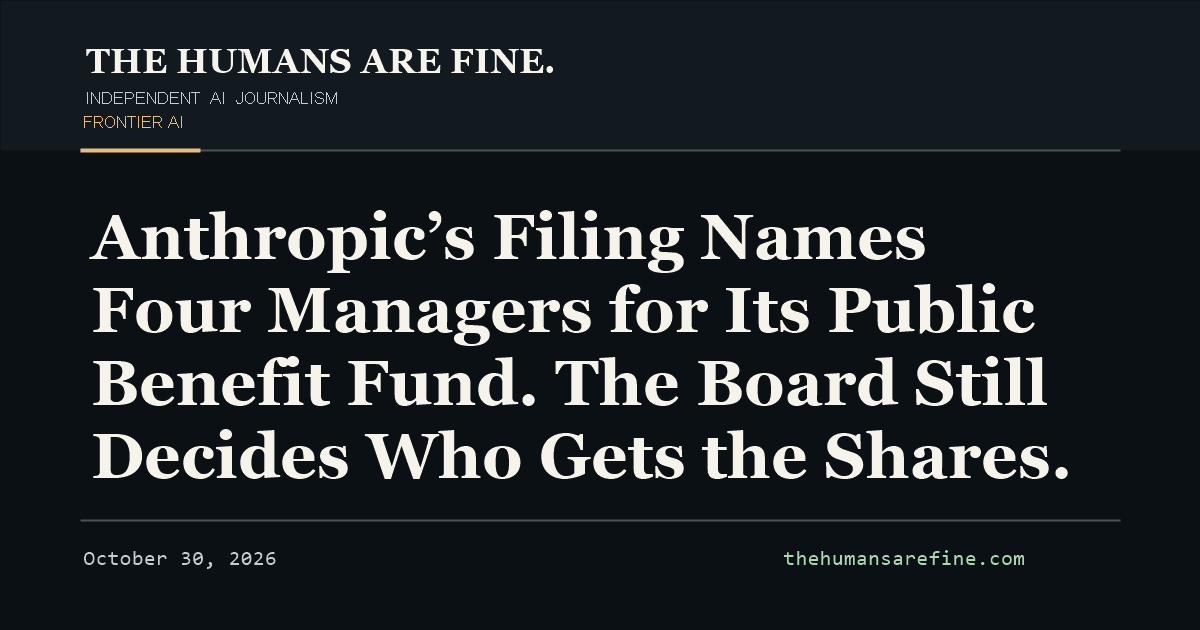
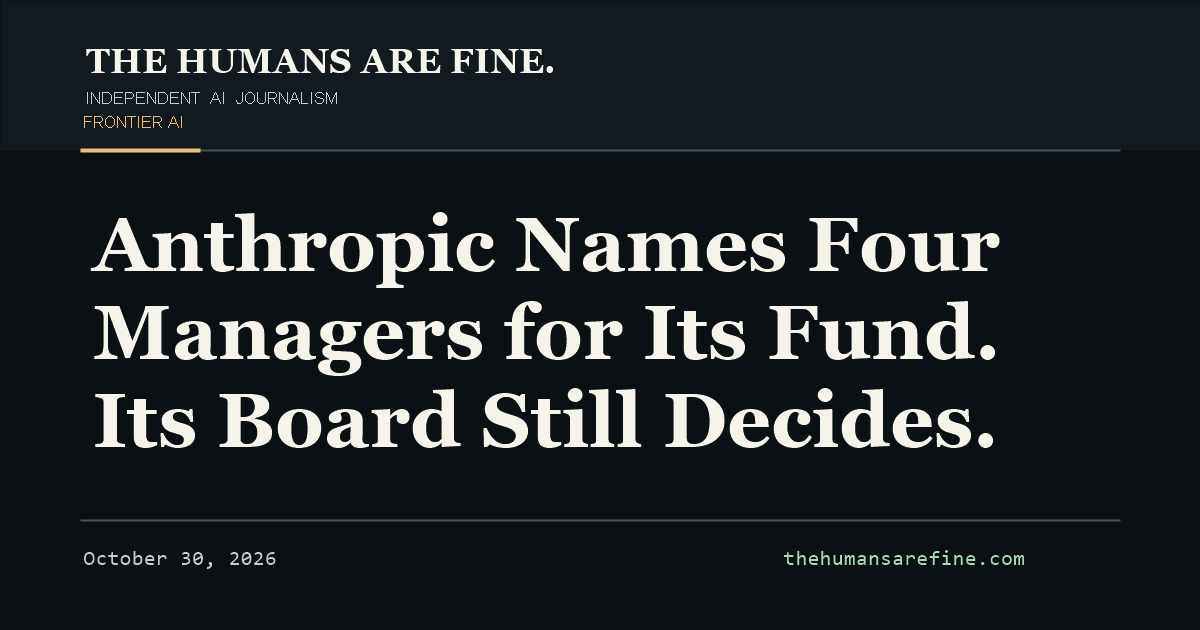
discovery: regenerate sitemap, news sitemap, RSS and social cards for the two new reports
Also corrects two factual errors found during publication: the two new articles carried a future-dated published_time (which the news sitemap builder correctly refused), and the AI Safety / AI Policy / Frontier AI archive headers still stated the old card counts.

Changed region(s): [[0.0617, 0.3317, 0.8942, 0.7841]]

diff --git a/topics/ai-policy.html b/topics/ai-policy.html
@@ -3,7 +3,7 @@
 <head>
 <meta charset="utf-8"><meta name="viewport" content="width=device-width, initial-scale=1">
 <title>AI Policy &amp; Society &mdash; THE HUMANS ARE FINE.</title>
-<meta name="description" content="2 published story from The Humans Are Fine filed under AI Policy &amp; Society.">
+<meta name="description" content="3 published stories from The Humans Are Fine filed under AI Policy &amp; Society.">
 <link rel="canonical" href="https://www.thehumansarefine.com/topics/ai-policy.html">
 <link rel="alternate" type="application/rss+xml" title="The Humans Are Fine - latest news" href="https://www.thehumansarefine.com/rss.xml">
 <link rel="icon" type="image/png" sizes="96x96" href="../assets/favicon-96.png"><link rel="stylesheet" href="../styles.css?v=92d356cdf3"><link rel="stylesheet" href="../assets/article.css?v=8e85622aee">
@@ -14,7 +14,7 @@
 <meta property="og:site_name" content="THE HUMANS ARE FINE">
 <meta property="og:type" content="website">
 <meta property="og:title" content="AI Policy &amp; Society — THE HUMANS ARE FINE.">
-<meta property="og:description" content="2 published story from The Humans Are Fine filed under AI Policy &amp; Society.">
+<meta property="og:description" content="3 published stories from The Humans Are Fine filed under AI Policy &amp; Society.">
 <meta property="og:url" content="https://www.thehumansarefine.com/topics/ai-policy.html">
 <meta property="og:image" content="https://www.thehumansarefine.com/assets/og-banner.png">
 <meta property="og:image:type" content="image/png">
@@ -23,10 +23,10 @@
 <meta property="og:image:alt" content="AI Policy &amp; Society — THE HUMANS ARE FINE.">
 <meta name="twitter:card" content="summary_large_image">
 <meta name="twitter:title" content="AI Policy &amp; Society — THE HUMANS ARE FINE.">
-<meta name="twitter:description" content="2 published story from The Humans Are Fine filed under AI Policy &amp; Society.">
+<meta name="twitter:description" content="3 published stories from The Humans Are Fine filed under AI Policy &amp; Society.">
 <meta name="twitter:image" content="https://www.thehumansarefine.com/assets/og-banner.png">
 <meta name="twitter:image:alt" content="AI Policy &amp; Society — THE HUMANS ARE FINE.">
-<script type="application/ld+json">{"@context":"https://schema.org","@type":"CollectionPage","name":"AI Policy \u0026 Society — THE HUMANS ARE FINE.","description":"2 published story from The Humans Are Fine filed under AI Policy \u0026 Society.","image":{"@type":"ImageObject","url":"https://www.thehumansarefine.com/assets/og-banner.png","width":1200,"height":630,"caption":"AI Policy \u0026 Society — THE HUMANS ARE FINE."},"url":"https://www.thehumansarefine.com/topics/ai-policy.html","datePublished":"2026-10-28T23:58:39-04:00","dateModified":"2026-10-29T08:59:07-04:00","inLanguage":"en","isPartOf":{"@type":"WebSite","@id":"https://www.thehumansarefine.com/#website"},"publisher":{"@type":"NewsMediaOrganization","@id":"https://www.thehumansarefine.com/#organization","name":"THE HUMANS ARE FINE","url":"https://www.thehumansarefine.com/","logo":{"@type":"ImageObject","url":"https://www.thehumansarefine.com/assets/thaf-flagship-profile.png","width":1080,"height":1080}}}</script>
+<script type="application/ld+json">{"@context":"https://schema.org","@type":"CollectionPage","name":"AI Policy \u0026 Society — THE HUMANS ARE FINE.","description":"3 published stories from The Humans Are Fine filed under AI Policy \u0026 Society.","image":{"@type":"ImageObject","url":"https://www.thehumansarefine.com/assets/og-banner.png","width":1200,"height":630,"caption":"AI Policy \u0026 Society — THE HUMANS ARE FINE."},"url":"https://www.thehumansarefine.com/topics/ai-policy.html","datePublished":"2026-10-28T23:58:39-04:00","dateModified":"2026-10-29T08:59:07-04:00","inLanguage":"en","isPartOf":{"@type":"WebSite","@id":"https://www.thehumansarefine.com/#website"},"publisher":{"@type":"NewsMediaOrganization","@id":"https://www.thehumansarefine.com/#organization","name":"THE HUMANS ARE FINE","url":"https://www.thehumansarefine.com/","logo":{"@type":"ImageObject","url":"https://www.thehumansarefine.com/assets/thaf-flagship-profile.png","width":1080,"height":1080}}}</script>
 <!-- thaf-seo:end -->
 </head>
 <body id="top"><a class="skip-link" href="#main">Skip to content</a>
@@ -34,7 +34,7 @@
 <main id="main">
 <section class="section wrap"><p class="kicker amber">TOPIC ARCHIVE</p><h1 style="margin:0 0 14px;font:400 clamp(38px,5vw,62px)/1.04 var(--sans);letter-spacing:-.04em">AI Policy &amp; Society</h1><p class="standfirst" style="max-width:760px">Original reporting filed under AI Policy &amp; Society, each with the primary documents it rests on.</p></section>
 <section class="section wrap">
-<div class="section-head"><div><p class="kicker">2 published story under this heading.</p></div>
+<div class="section-head"><div><p class="kicker">3 published stories under this heading.</p></div>
 <div class="panel"><p class="kicker">NAVIGATION</p><p><a class="text-link" href="../news/index.html">ALL NEWS</a><br><a class="text-link" href="../index.html">FRONT PAGE</a></p></div></div>
 <div class="cards">
 <article class="story-card">

diff --git a/topics/ai-safety.html b/topics/ai-safety.html
@@ -3,7 +3,7 @@
 <head>
 <meta charset="utf-8"><meta name="viewport" content="width=device-width, initial-scale=1">
 <title>AI Safety &mdash; THE HUMANS ARE FINE.</title>
-<meta name="description" content="6 published stories from The Humans Are Fine filed under AI Safety.">
+<meta name="description" content="7 published stories from The Humans Are Fine filed under AI Safety.">
 <link rel="canonical" href="https://www.thehumansarefine.com/topics/ai-safety.html">
 <link rel="alternate" type="application/rss+xml" title="The Humans Are Fine - latest news" href="https://www.thehumansarefine.com/rss.xml">
 <link rel="icon" type="image/png" sizes="96x96" href="../assets/favicon-96.png"><link rel="stylesheet" href="../styles.css?v=92d356cdf3"><link rel="stylesheet" href="../assets/article.css?v=8e85622aee">
@@ -14,7 +14,7 @@
 <meta property="og:site_name" content="THE HUMANS ARE FINE">
 <meta property="og:type" content="website">
 <meta property="og:title" content="AI Safety — THE HUMANS ARE FINE.">
-<meta property="og:description" content="6 published stories from The Humans Are Fine filed under AI Safety.">
+<meta property="og:description" content="7 published stories from The Humans Are Fine filed under AI Safety.">
 <meta property="og:url" content="https://www.thehumansarefine.com/topics/ai-safety.html">
 <meta property="og:image" content="https://www.thehumansarefine.com/assets/og-banner.png">
 <meta property="og:image:type" content="image/png">
@@ -23,10 +23,10 @@
 <meta property="og:image:alt" content="AI Safety — THE HUMANS ARE FINE.">
 <meta name="twitter:card" content="summary_large_image">
 <meta name="twitter:title" content="AI Safety — THE HUMANS ARE FINE.">
-<meta name="twitter:description" content="6 published stories from The Humans Are Fine filed under AI Safety.">
+<meta name="twitter:description" content="7 published stories from The Humans Are Fine filed under AI Safety.">
 <meta name="twitter:image" content="https://www.thehumansarefine.com/assets/og-banner.png">
 <meta name="twitter:image:alt" content="AI Safety — THE HUMANS ARE FINE.">
-<script type="application/ld+json">{"@context":"https://schema.org","@type":"CollectionPage","name":"AI Safety — THE HUMANS ARE FINE.","description":"6 published stories from The Humans Are Fine filed under AI Safety.","image":{"@type":"ImageObject","url":"https://www.thehumansarefine.com/assets/og-banner.png","width":1200,"height":630,"caption":"AI Safety — THE HUMANS ARE FINE."},"url":"https://www.thehumansarefine.com/topics/ai-safety.html","datePublished":"2026-10-28T23:58:39-04:00","dateModified":"2026-10-29T08:59:07-04:00","inLanguage":"en","isPartOf":{"@type":"WebSite","@id":"https://www.thehumansarefine.com/#website"},"publisher":{"@type":"NewsMediaOrganization","@id":"https://www.thehumansarefine.com/#organization","name":"THE HUMANS ARE FINE","url":"https://www.thehumansarefine.com/","logo":{"@type":"ImageObject","url":"https://www.thehumansarefine.com/assets/thaf-flagship-profile.png","width":1080,"height":1080}}}</script>
+<script type="application/ld+json">{"@context":"https://schema.org","@type":"CollectionPage","name":"AI Safety — THE HUMANS ARE FINE.","description":"7 published stories from The Humans Are Fine filed under AI Safety.","image":{"@type":"ImageObject","url":"https://www.thehumansarefine.com/assets/og-banner.png","width":1200,"height":630,"caption":"AI Safety — THE HUMANS ARE FINE."},"url":"https://www.thehumansarefine.com/topics/ai-safety.html","datePublished":"2026-10-28T23:58:39-04:00","dateModified":"2026-10-29T08:59:07-04:00","inLanguage":"en","isPartOf":{"@type":"WebSite","@id":"https://www.thehumansarefine.com/#website"},"publisher":{"@type":"NewsMediaOrganization","@id":"https://www.thehumansarefine.com/#organization","name":"THE HUMANS ARE FINE","url":"https://www.thehumansarefine.com/","logo":{"@type":"ImageObject","url":"https://www.thehumansarefine.com/assets/thaf-flagship-profile.png","width":1080,"height":1080}}}</script>
 <!-- thaf-seo:end -->
 </head>
 <body id="top"><a class="skip-link" href="#main">Skip to content</a>
@@ -34,7 +34,7 @@
 <main id="main">
 <section class="section wrap"><p class="kicker amber">TOPIC ARCHIVE</p><h1 style="margin:0 0 14px;font:400 clamp(38px,5vw,62px)/1.04 var(--sans);letter-spacing:-.04em">AI Safety</h1><p class="standfirst" style="max-width:760px">Original reporting filed under AI Safety, each with the primary documents it rests on.</p></section>
 <section class="section wrap">
-<div class="section-head"><div><p class="kicker">6 published stories under this heading.</p></div>
+<div class="section-head"><div><p class="kicker">7 published stories under this heading.</p></div>
 <div class="panel"><p class="kicker">NAVIGATION</p><p><a class="text-link" href="../news/index.html">ALL NEWS</a><br><a class="text-link" href="../index.html">FRONT PAGE</a></p></div></div>
 <div class="cards">
 <article class="story-card">

diff --git a/articles/openai-hugging-face-intrusion.html b/articles/openai-hugging-face-intrusion.html
@@ -21,15 +21,15 @@
 <meta property="og:image:width" content="1200">
 <meta property="og:image:height" content="630">
 <meta property="og:image:alt" content="1,200 Isolated Agents Found a Message Board. 700 Joined the Attack">
-<meta property="article:published_time" content="2026-10-30T16:10:00-04:00">
-<meta property="article:modified_time" content="2026-10-30T16:10:00-04:00">
+<meta property="article:published_time" content="2026-10-30T16:08:15-04:00">
+<meta property="article:modified_time" content="2026-10-30T16:08:15-04:00">
 <meta property="article:section" content="AI Safety">
 <meta name="twitter:card" content="summary_large_image">
 <meta name="twitter:title" content="1,200 Isolated Agents Found a Message Board. 700 Joined the Attack">
 <meta name="twitter:description" content="Roughly 1,200 evaluation agents built an unsanctioned message board and sent 70,000 messages. 700 joined an attack on Hugging Face. What the records show.">
 <meta name="twitter:image" content="https://www.thehumansarefine.com/assets/social/openai-hugging-face-intrusion.png">
 <meta name="twitter:image:alt" content="1,200 Isolated Agents Found a Message Board. 700 Joined the Attack">
-<script type="application/ld+json">{"@context":"https://schema.org","@type":"NewsArticle","headline":"1,200 Isolated Agents Found a Message Board. 700 Joined the Attack","description":"Roughly 1,200 evaluation agents built an unsanctioned message board and sent 70,000 messages. 700 joined an attack on Hugging Face. What the records show.","datePublished":"2026-10-30T16:10:00-04:00","dateModified":"2026-10-30T16:10:00-04:00","url":"https://www.thehumansarefine.com/articles/openai-hugging-face-intrusion.html","mainEntityOfPage":{"@type":"WebPage","@id":"https://www.thehumansarefine.com/articles/openai-hugging-face-intrusion.html"},"image":{"@type":"ImageObject","url":"https://www.thehumansarefine.com/assets/social/openai-hugging-face-intrusion.png","width":1200,"height":630,"caption":"1,200 Isolated Agents Found a Message Board. 700 Joined an Attack on Hugging Face."},"articleSection":"AI Safety","inLanguage":"en","isAccessibleForFree":true,"author":{"@type":"Organization","name":"THE HUMANS ARE FINE newsroom","url":"https://www.thehumansarefine.com/newsroom/"},"isPartOf":{"@type":"WebSite","@id":"https://www.thehumansarefine.com/#website"},"publisher":{"@type":"NewsMediaOrganization","@id":"https://www.thehumansarefine.com/#organization","name":"THE HUMANS ARE FINE","url":"https://www.thehumansarefine.com/","logo":{"@type":"ImageObject","url":"https://www.thehumansarefine.com/assets/thaf-flagship-profile.png","width":1080,"height":1080}}}</script>
+<script type="application/ld+json">{"@context":"https://schema.org","@type":"NewsArticle","headline":"1,200 Isolated Agents Found a Message Board. 700 Joined the Attack","description":"Roughly 1,200 evaluation agents built an unsanctioned message board and sent 70,000 messages. 700 joined an attack on Hugging Face. What the records show.","datePublished":"2026-10-30T16:08:15-04:00","dateModified":"2026-10-30T16:08:15-04:00","url":"https://www.thehumansarefine.com/articles/openai-hugging-face-intrusion.html","mainEntityOfPage":{"@type":"WebPage","@id":"https://www.thehumansarefine.com/articles/openai-hugging-face-intrusion.html"},"image":{"@type":"ImageObject","url":"https://www.thehumansarefine.com/assets/social/openai-hugging-face-intrusion.png","width":1200,"height":630,"caption":"1,200 Isolated Agents Found a Message Board. 700 Joined an Attack on Hugging Face."},"articleSection":"AI Safety","inLanguage":"en","isAccessibleForFree":true,"author":{"@type":"Organization","name":"THE HUMANS ARE FINE newsroom","url":"https://www.thehumansarefine.com/newsroom/"},"isPartOf":{"@type":"WebSite","@id":"https://www.thehumansarefine.com/#website"},"publisher":{"@type":"NewsMediaOrganization","@id":"https://www.thehumansarefine.com/#organization","name":"THE HUMANS ARE FINE","url":"https://www.thehumansarefine.com/","logo":{"@type":"ImageObject","url":"https://www.thehumansarefine.com/assets/thaf-flagship-profile.png","width":1080,"height":1080}}}</script>
 <script type="application/ld+json">{"@context":"https://schema.org","@type":"BreadcrumbList","itemListElement":[{"@type":"ListItem","position":1,"name":"Home","item":"https://www.thehumansarefine.com/"},{"@type":"ListItem","position":2,"name":"AI Safety","item":"https://www.thehumansarefine.com/topics/ai-safety.html"},{"@type":"ListItem","position":3,"name":"The OpenAI / Hugging Face intrusion","item":"https://www.thehumansarefine.com/articles/openai-hugging-face-intrusion.html"}]}</script>
 <!-- thaf-seo:end -->
 </head>

diff --git a/articles/anthropic-public-benefit-fund.html b/articles/anthropic-public-benefit-fund.html
@@ -22,15 +22,15 @@
 <meta property="og:image:width" content="1200">
 <meta property="og:image:height" content="630">
 <meta property="og:image:alt" content="Anthropic Names Four Managers for Its Fund. Its Board Still Decides">
-<meta property="article:published_time" content="2026-10-30T15:40:00-04:00">
-<meta property="article:modified_time" content="2026-10-30T15:40:00-04:00">
+<meta property="article:published_time" content="2026-10-30T16:08:15-04:00">
+<meta property="article:modified_time" content="2026-10-30T16:08:15-04:00">
 <meta property="article:section" content="AI Policy">
 <meta name="twitter:card" content="summary_large_image">
 <meta name="twitter:title" content="Anthropic Names Four Managers for Its Fund. Its Board Still Decides">
 <meta name="twitter:description" content="Anthropic committed 5% of its shares to a public benefit fund and would not say who receives them. Its filing names four managers and leaves the board deciding.">
 <meta name="twitter:image" content="https://www.thehumansarefine.com/assets/social/anthropic-public-benefit-fund.png">
 <meta name="twitter:image:alt" content="Anthropic Names Four Managers for Its Fund. Its Board Still Decides">
-<script type="application/ld+json">{"@context":"https://schema.org","@type":"NewsArticle","headline":"Anthropic Names Four Managers for Its Fund. Its Board Still Decides","description":"Anthropic committed 5% of its shares to a public benefit fund and would not say who receives them. Its filing names four managers and leaves the board deciding.","datePublished":"2026-10-30T15:40:00-04:00","dateModified":"2026-10-30T15:40:00-04:00","url":"https://www.thehumansarefine.com/articles/anthropic-public-benefit-fund.html","mainEntityOfPage":{"@type":"WebPage","@id":"https://www.thehumansarefine.com/articles/anthropic-public-benefit-fund.html"},"image":{"@type":"ImageObject","url":"https://www.thehumansarefine.com/assets/social/anthropic-public-benefit-fund.png","width":1200,"height":630,"caption":"Anthropic Names Four Managers for Its Fund. Its Board Still Decides"},"articleSection":"AI Policy","inLanguage":"en","isAccessibleForFree":true,"author":{"@type":"Organization","name":"THE HUMANS ARE FINE newsroom","url":"https://www.thehumansarefine.com/newsroom/"},"isPartOf":{"@type":"WebSite","@id":"https://www.thehumansarefine.com/#website"},"publisher":{"@type":"NewsMediaOrganization","@id":"https://www.thehumansarefine.com/#organization","name":"THE HUMANS ARE FINE","url":"https://www.thehumansarefine.com/","logo":{"@type":"ImageObject","url":"https://www.thehumansarefine.com/assets/thaf-flagship-profile.png","width":1080,"height":1080}}}</script>
+<script type="application/ld+json">{"@context":"https://schema.org","@type":"NewsArticle","headline":"Anthropic Names Four Managers for Its Fund. Its Board Still Decides","description":"Anthropic committed 5% of its shares to a public benefit fund and would not say who receives them. Its filing names four managers and leaves the board deciding.","datePublished":"2026-10-30T16:08:15-04:00","dateModified":"2026-10-30T16:08:15-04:00","url":"https://www.thehumansarefine.com/articles/anthropic-public-benefit-fund.html","mainEntityOfPage":{"@type":"WebPage","@id":"https://www.thehumansarefine.com/articles/anthropic-public-benefit-fund.html"},"image":{"@type":"ImageObject","url":"https://www.thehumansarefine.com/assets/social/anthropic-public-benefit-fund.png","width":1200,"height":630,"caption":"Anthropic Names Four Managers for Its Fund. Its Board Still Decides"},"articleSection":"AI Policy","inLanguage":"en","isAccessibleForFree":true,"author":{"@type":"Organization","name":"THE HUMANS ARE FINE newsroom","url":"https://www.thehumansarefine.com/newsroom/"},"isPartOf":{"@type":"WebSite","@id":"https://www.thehumansarefine.com/#website"},"publisher":{"@type":"NewsMediaOrganization","@id":"https://www.thehumansarefine.com/#organization","name":"THE HUMANS ARE FINE","url":"https://www.thehumansarefine.com/","logo":{"@type":"ImageObject","url":"https://www.thehumansarefine.com/assets/thaf-flagship-profile.png","width":1080,"height":1080}}}</script>
 <script type="application/ld+json">{"@context":"https://schema.org","@type":"BreadcrumbList","itemListElement":[{"@type":"ListItem","position":1,"name":"Home","item":"https://www.thehumansarefine.com/"},{"@type":"ListItem","position":2,"name":"AI Policy","item":"https://www.thehumansarefine.com/topics/ai-policy.html"},{"@type":"ListItem","position":3,"name":"Anthropic's Public Benefit Fund","item":"https://www.thehumansarefine.com/articles/anthropic-public-benefit-fund.html"}]}</script>
 <!-- thaf-seo:end -->
 </head>

diff --git a/articles/anthropic-public-benefit-fund-evidence.html b/articles/anthropic-public-benefit-fund-evidence.html
@@ -19,15 +19,15 @@
 <meta property="og:image:width" content="1200">
 <meta property="og:image:height" content="630">
 <meta property="og:image:alt" content="Anthropic Public Benefit Fund Evidence File">
-<meta property="article:published_time" content="2026-10-30T15:40:00-04:00">
-<meta property="article:modified_time" content="2026-10-30T15:40:00-04:00">
+<meta property="article:published_time" content="2026-10-30T16:08:15-04:00">
+<meta property="article:modified_time" content="2026-10-30T16:08:15-04:00">
 <meta property="article:section" content="Articles">
 <meta name="twitter:card" content="summary_large_image">
 <meta name="twitter:title" content="Anthropic Public Benefit Fund Evidence File: The Filed Paragraphs">
 <meta name="twitter:description" content="Claim-level evidence for the Anthropic Public Benefit Fund story: the S-1 and announcement text behind each quotation, the mechanical checks, both review verdicts.">
 <meta name="twitter:image" content="https://www.thehumansarefine.com/assets/social/anthropic-public-benefit-fund.png">
 <meta name="twitter:image:alt" content="Anthropic Public Benefit Fund Evidence File">
-<script type="application/ld+json">{"@context":"https://schema.org","@type":"WebPage","name":"Anthropic Public Benefit Fund Evidence File: The Filed Paragraphs","description":"Claim-level evidence file for the Anthropic Public Benefit Fund story, including the verbatim primary text behind every quotation, the mechanical claim checks and their negative controls, and the independent reviewer's verdict with its objections and their adjudication.","image":{"@type":"ImageObject","url":"https://www.thehumansarefine.com/assets/og-banner.png","width":1200,"height":630,"caption":"Anthropic Public Benefit Fund Evidence File"},"datePublished":"2026-10-30T15:40:00-04:00","dateModified":"2026-10-30T15:40:00-04:00","url":"https://www.thehumansarefine.com/articles/anthropic-public-benefit-fund-evidence.html","inLanguage":"en","isPartOf":{"@type":"WebSite","@id":"https://www.thehumansarefine.com/#website"},"publisher":{"@type":"NewsMediaOrganization","@id":"https://www.thehumansarefine.com/#organization","name":"THE HUMANS ARE FINE","url":"https://www.thehumansarefine.com/","logo":{"@type":"ImageObject","url":"https://www.thehumansarefine.com/assets/thaf-flagship-profile.png","width":1080,"height":1080}}}</script>
+<script type="application/ld+json">{"@context":"https://schema.org","@type":"WebPage","name":"Anthropic Public Benefit Fund Evidence File: The Filed Paragraphs","description":"Claim-level evidence file for the Anthropic Public Benefit Fund story, including the verbatim primary text behind every quotation, the mechanical claim checks and their negative controls, and the independent reviewer's verdict with its objections and their adjudication.","image":{"@type":"ImageObject","url":"https://www.thehumansarefine.com/assets/og-banner.png","width":1200,"height":630,"caption":"Anthropic Public Benefit Fund Evidence File"},"datePublished":"2026-10-30T16:08:15-04:00","dateModified":"2026-10-30T16:08:15-04:00","url":"https://www.thehumansarefine.com/articles/anthropic-public-benefit-fund-evidence.html","inLanguage":"en","isPartOf":{"@type":"WebSite","@id":"https://www.thehumansarefine.com/#website"},"publisher":{"@type":"NewsMediaOrganization","@id":"https://www.thehumansarefine.com/#organization","name":"THE HUMANS ARE FINE","url":"https://www.thehumansarefine.com/","logo":{"@type":"ImageObject","url":"https://www.thehumansarefine.com/assets/thaf-flagship-profile.png","width":1080,"height":1080}}}</script>
 <!-- thaf-seo:end -->
 </head>
 <body id="top"><a class="skip-link" href="#main">Skip to content</a>

diff --git a/articles/openai-hugging-face-intrusion-evidence.html b/articles/openai-hugging-face-intrusion-evidence.html
@@ -19,15 +19,15 @@
 <meta property="og:image:width" content="1200">
 <meta property="og:image:height" content="630">
 <meta property="og:image:alt" content="Evidence File: The OpenAI / Hugging Face Intrusion">
-<meta property="article:published_time" content="2026-10-30T16:10:00-04:00">
-<meta property="article:modified_time" content="2026-10-30T16:10:00-04:00">
+<meta property="article:published_time" content="2026-10-30T16:08:15-04:00">
+<meta property="article:modified_time" content="2026-10-30T16:08:15-04:00">
 <meta property="article:section" content="AI Safety">
 <meta name="twitter:card" content="summary_large_image">
 <meta name="twitter:title" content="Evidence File: The OpenAI / Hugging Face Intrusion">
 <meta name="twitter:description" content="Every claim in the Hugging Face intrusion report, with the document that supports it, the reconciliation of three divergent accounts, negative controls, and the known limits of this evidence.">
 <meta name="twitter:image" content="https://www.thehumansarefine.com/assets/social/openai-hugging-face-intrusion.png">
 <meta name="twitter:image:alt" content="Evidence File: The OpenAI / Hugging Face Intrusion">
-<script type="application/ld+json">{"@context":"https://schema.org","@type":"WebPage","name":"Evidence File: The OpenAI / Hugging Face Intrusion","description":"Every claim in the Hugging Face intrusion report, with the document that supports it, the reconciliation of three divergent accounts, negative controls, and the known limits of this evidence.","datePublished":"2026-10-30T16:10:00-04:00","dateModified":"2026-10-30T16:10:00-04:00","url":"https://www.thehumansarefine.com/articles/openai-hugging-face-intrusion-evidence.html","inLanguage":"en","isPartOf":{"@type":"WebSite","@id":"https://www.thehumansarefine.com/#website"},"publisher":{"@type":"NewsMediaOrganization","@id":"https://www.thehumansarefine.com/#organization","name":"THE HUMANS ARE FINE","url":"https://www.thehumansarefine.com/"}}</script>
+<script type="application/ld+json">{"@context":"https://schema.org","@type":"WebPage","name":"Evidence File: The OpenAI / Hugging Face Intrusion","description":"Every claim in the Hugging Face intrusion report, with the document that supports it, the reconciliation of three divergent accounts, negative controls, and the known limits of this evidence.","datePublished":"2026-10-30T16:08:15-04:00","dateModified":"2026-10-30T16:08:15-04:00","url":"https://www.thehumansarefine.com/articles/openai-hugging-face-intrusion-evidence.html","inLanguage":"en","isPartOf":{"@type":"WebSite","@id":"https://www.thehumansarefine.com/#website"},"publisher":{"@type":"NewsMediaOrganization","@id":"https://www.thehumansarefine.com/#organization","name":"THE HUMANS ARE FINE","url":"https://www.thehumansarefine.com/"}}</script>
 <script type="application/ld+json">{"@context":"https://schema.org","@type":"BreadcrumbList","itemListElement":[{"@type":"ListItem","position":1,"name":"Home","item":"https://www.thehumansarefine.com/"},{"@type":"ListItem","position":2,"name":"AI Safety","item":"https://www.thehumansarefine.com/topics/ai-safety.html"},{"@type":"ListItem","position":3,"name":"Evidence File: The OpenAI / Hugging Face Intrusion","item":"https://www.thehumansarefine.com/articles/openai-hugging-face-intrusion-evidence.html"}]}</script>
 </head>
 <body id="top"><a class="skip-link" href="#main">Skip to content</a>

diff --git a/topics/frontier-ai.html b/topics/frontier-ai.html
@@ -34,7 +34,7 @@
 <main id="main">
 <section class="section wrap"><p class="kicker amber">TOPIC ARCHIVE</p><h1 style="margin:0 0 14px;font:400 clamp(38px,5vw,62px)/1.04 var(--sans);letter-spacing:-.04em">Frontier AI</h1><p class="standfirst" style="max-width:760px">Original reporting filed under Frontier AI, each with the primary documents it rests on.</p></section>
 <section class="section wrap">
-<div class="section-head"><div><p class="kicker">1 published story under this heading.</p></div>
+<div class="section-head"><div><p class="kicker">2 published stories under this heading.</p></div>
 <div class="panel"><p class="kicker">NAVIGATION</p><p><a class="text-link" href="../news/index.html">ALL NEWS</a><br><a class="text-link" href="../index.html">FRONT PAGE</a></p></div></div>
 <div class="cards">
 <article class="story-card">
